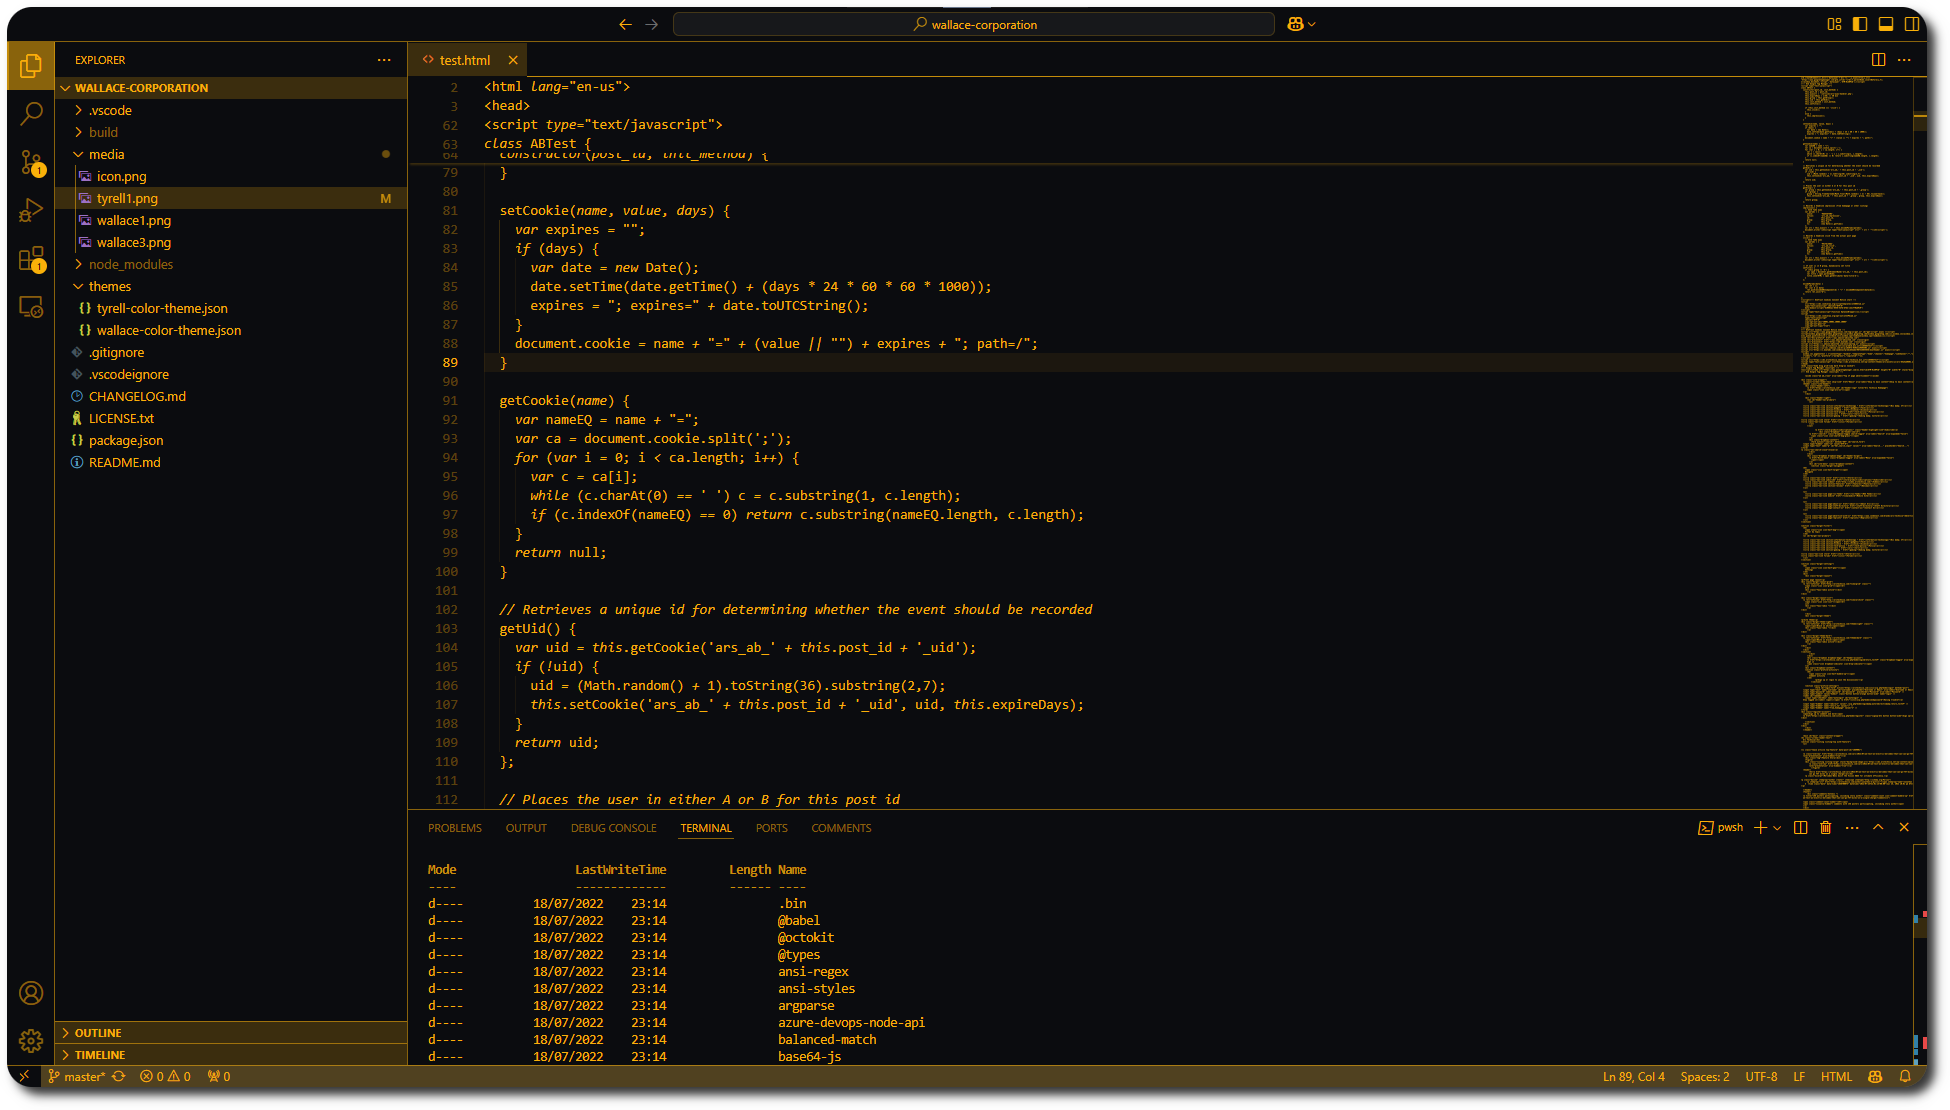
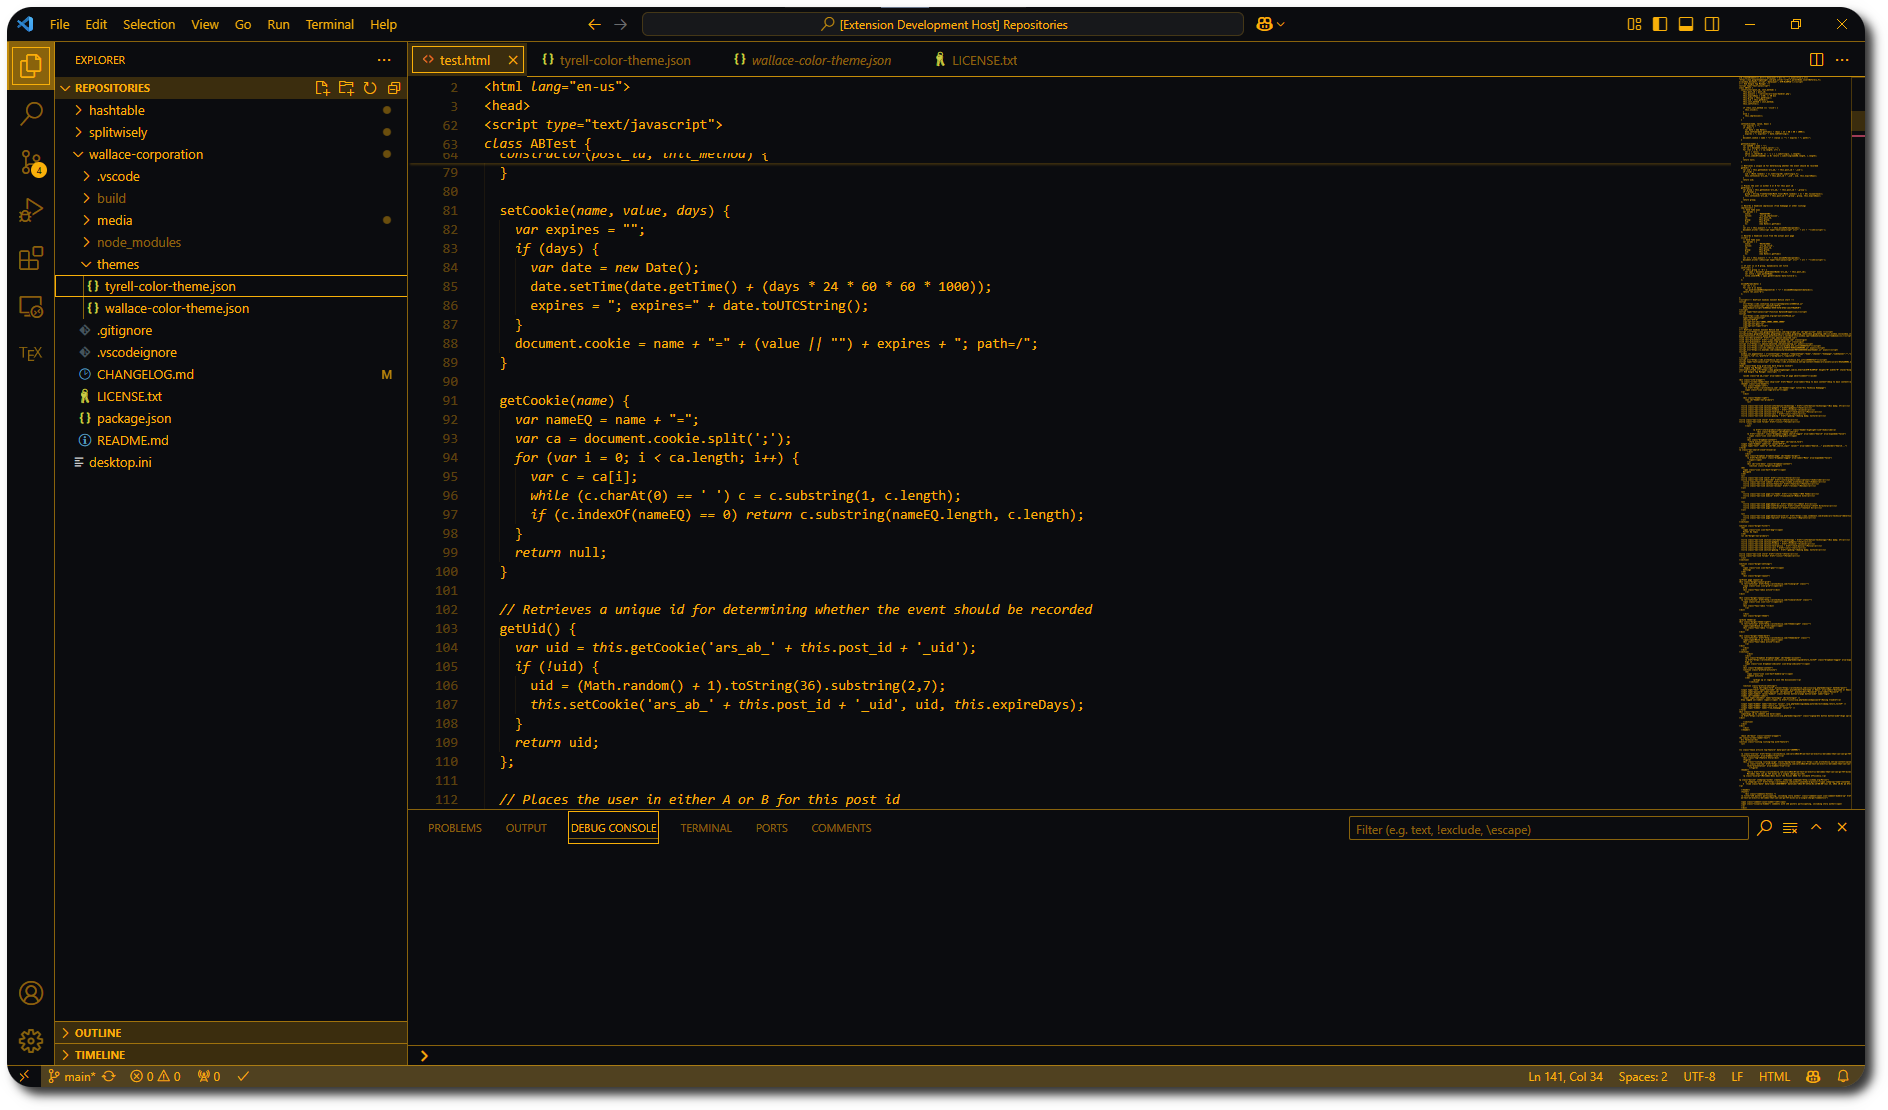
Version 0.4.0

diff --git a/CHANGELOG.md b/CHANGELOG.md
@@ -1,5 +1,12 @@
 # Change Log
 
+## [0.4.0]
+### Added
+- Contrast for active borders in 'Tyrell Corporation'.
+
+### Fixed
+- List item warning colour under file explorer not being distinguishable from other git resource colours in 'Wallace Corporation'.
+
 ## [0.3.2]
 ### Fixed
 - Hovered over item under file explorer not being visible in ‘Wallace Corporation’.
